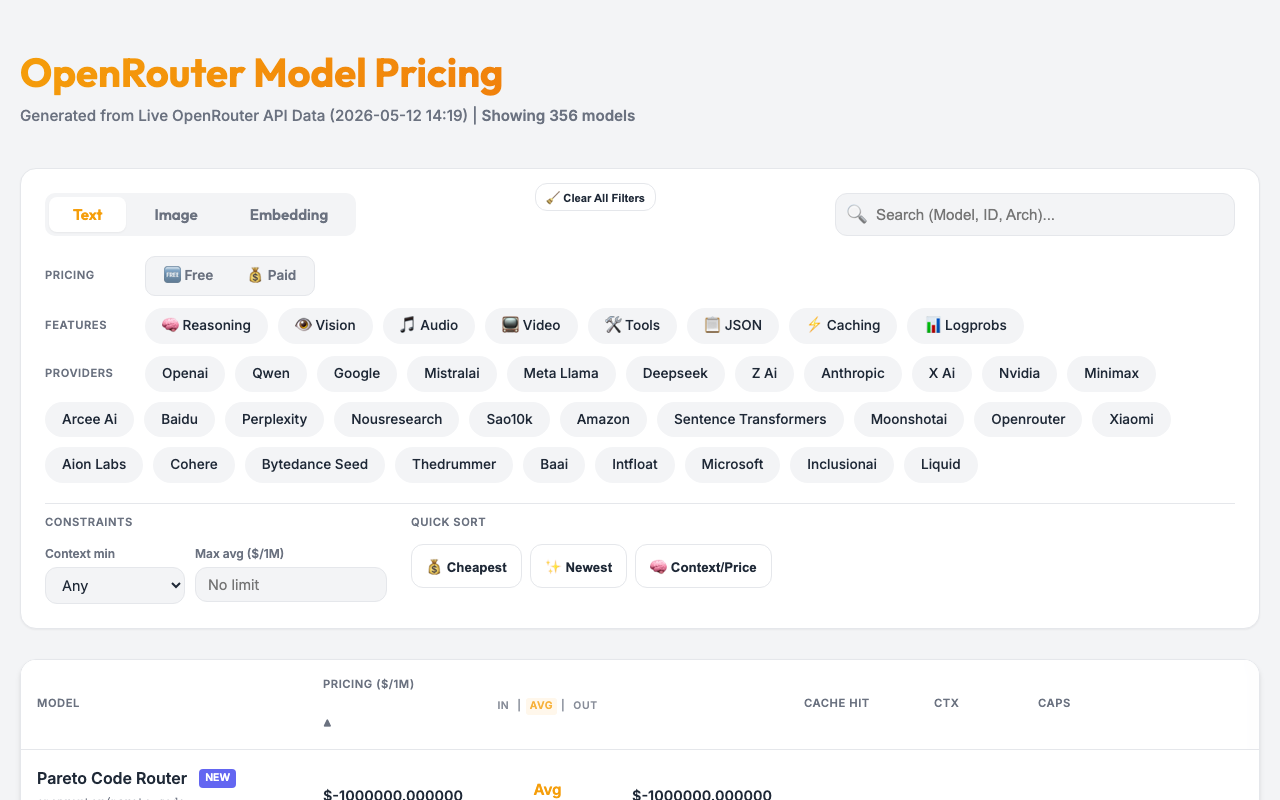
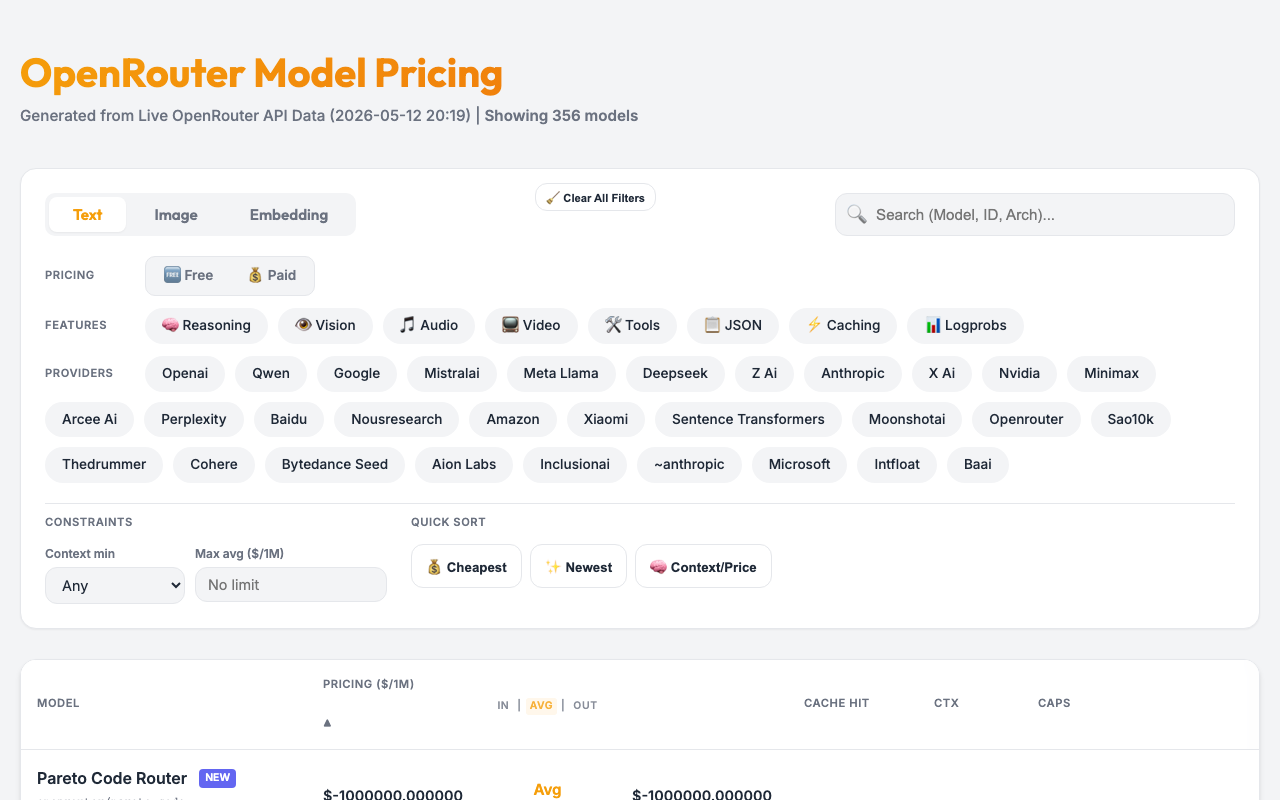
chore: automated pricing update (2026-05-12 20:19:54)
🔄 Changed Models (2): minimax/minimax-m2.7, qwen/qwen3.5-397b-a17b

diff --git a/docs/index.html b/docs/index.html
@@ -668,7 +668,7 @@
     <div class="container">
         <header>
             <h1>OpenRouter Model Pricing</h1>
-            <div class="meta">Generated from Live OpenRouter API Data (2026-05-12 14:19)</div>
+            <div class="meta">Generated from Live OpenRouter API Data (2026-05-12 20:19)</div>
         </header>
 
         <div class="controls">
@@ -3935,12 +3935,12 @@
         "instruct_type": null
       },
       "pricing": {
-        "prompt": "0.000000299",
+        "prompt": "0.0000002",
         "completion": "0.0000012"
       },
       "top_provider": {
         "context_length": 196608,
-        "max_completion_tokens": 131072,
+        "max_completion_tokens": null,
         "is_moderated": false
       },
       "per_request_limits": null,
@@ -5520,8 +5520,7 @@
       },
       "pricing": {
         "prompt": "0.00000039",
-        "completion": "0.00000234",
-        "input_cache_read": "0.000000195"
+        "completion": "0.00000234"
       },
       "top_provider": {
         "context_length": 262144,
@@ -22454,7 +22453,7 @@
     }
   ]
 };
-        window.providerOptions = ['openai', 'qwen', 'google', 'mistralai', 'meta-llama', 'deepseek', 'z-ai', 'anthropic', 'x-ai', 'nvidia', 'minimax', 'arcee-ai', 'baidu', 'perplexity', 'nousresearch', 'sao10k', 'amazon', 'sentence-transformers', 'moonshotai', 'openrouter', 'xiaomi', 'aion-labs', 'cohere', 'bytedance-seed', 'thedrummer', 'baai', 'intfloat', 'microsoft', 'inclusionai', 'liquid', '~anthropic', 'relace', 'tencent', 'thenlper', 'inflection', '~openai', 'poolside', '~google', 'ibm-granite', 'rekaai', 'morph', 'kwaipilot', 'ai21', 'writer', 'upstage', 'bytedance', 'switchpoint', 'prime-intellect', 'essentialai', '~moonshotai', 'alibaba', 'gryphe', 'inception', 'deepcogito', 'stepfun', 'allenai', 'cognitivecomputations', 'anthracite-org', 'undi95', 'alfredpros', 'nex-agi', 'mancer'];
+        window.providerOptions = ['openai', 'qwen', 'google', 'mistralai', 'meta-llama', 'deepseek', 'z-ai', 'anthropic', 'x-ai', 'nvidia', 'minimax', 'arcee-ai', 'perplexity', 'baidu', 'nousresearch', 'amazon', 'xiaomi', 'sentence-transformers', 'moonshotai', 'openrouter', 'sao10k', 'thedrummer', 'cohere', 'bytedance-seed', 'aion-labs', 'inclusionai', '~anthropic', 'microsoft', 'intfloat', 'baai', 'liquid', 'morph', 'relace', 'thenlper', '~google', '~openai', 'ibm-granite', 'inflection', 'tencent', 'rekaai', 'poolside', 'switchpoint', 'prime-intellect', 'cognitivecomputations', 'deepcogito', 'undi95', '~moonshotai', 'mancer', 'alfredpros', 'stepfun', 'nex-agi', 'writer', 'essentialai', 'gryphe', 'anthracite-org', 'alibaba', 'ai21', 'kwaipilot', 'inception', 'upstage', 'allenai', 'bytedance'];
         let currentTab = 'text';
         let sortKey = 'price_avg';
         let sortAsc = true;
